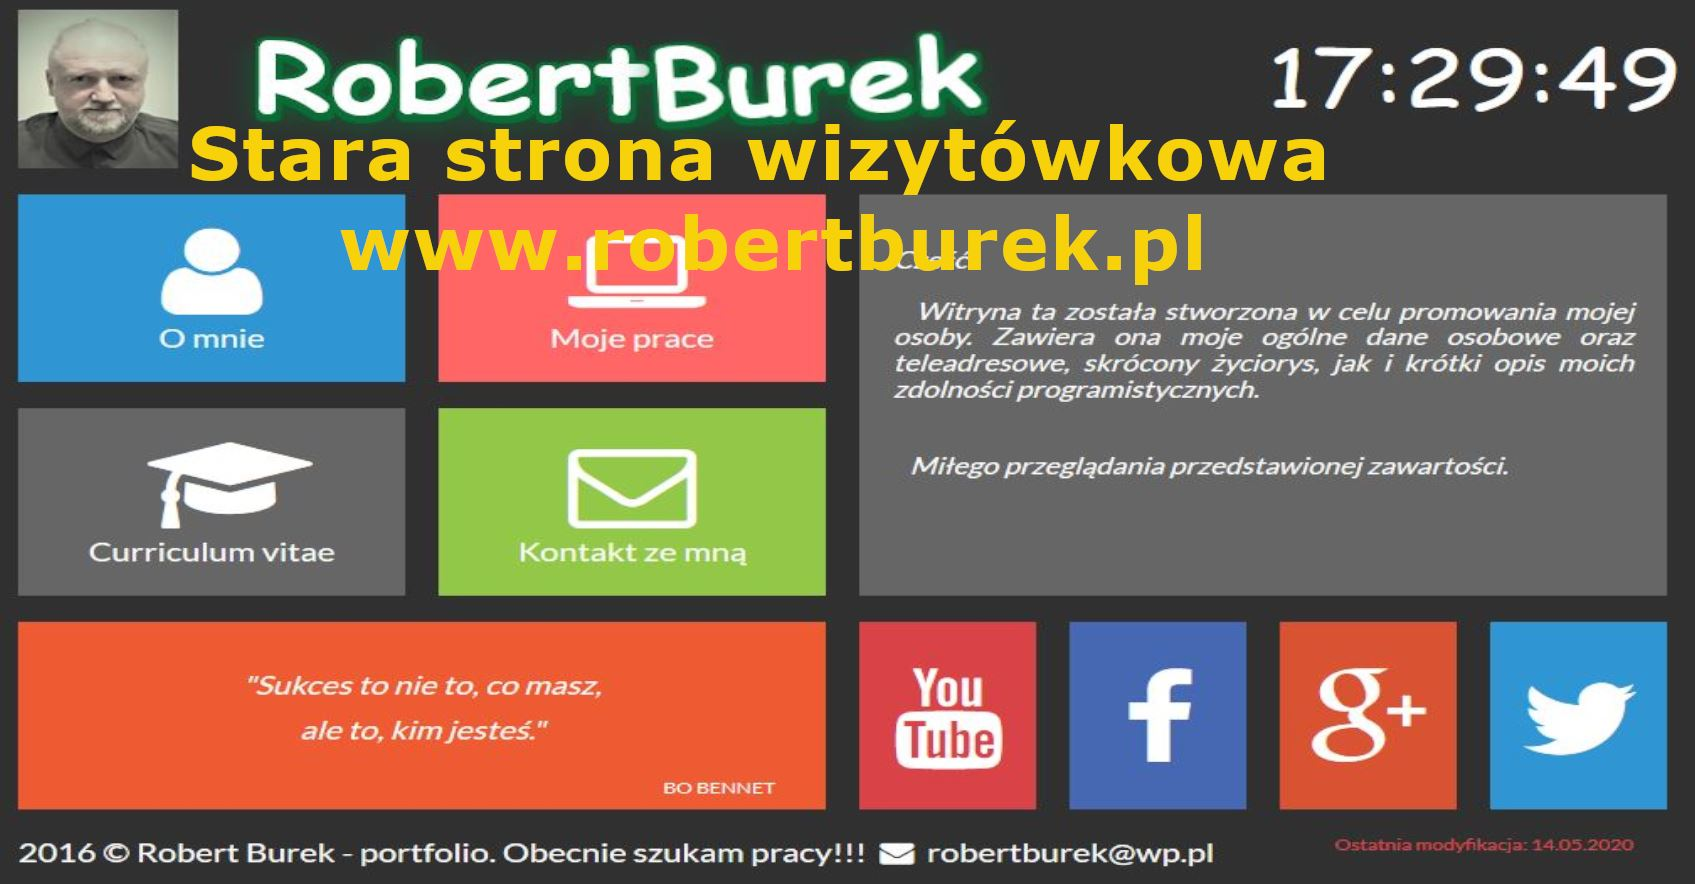
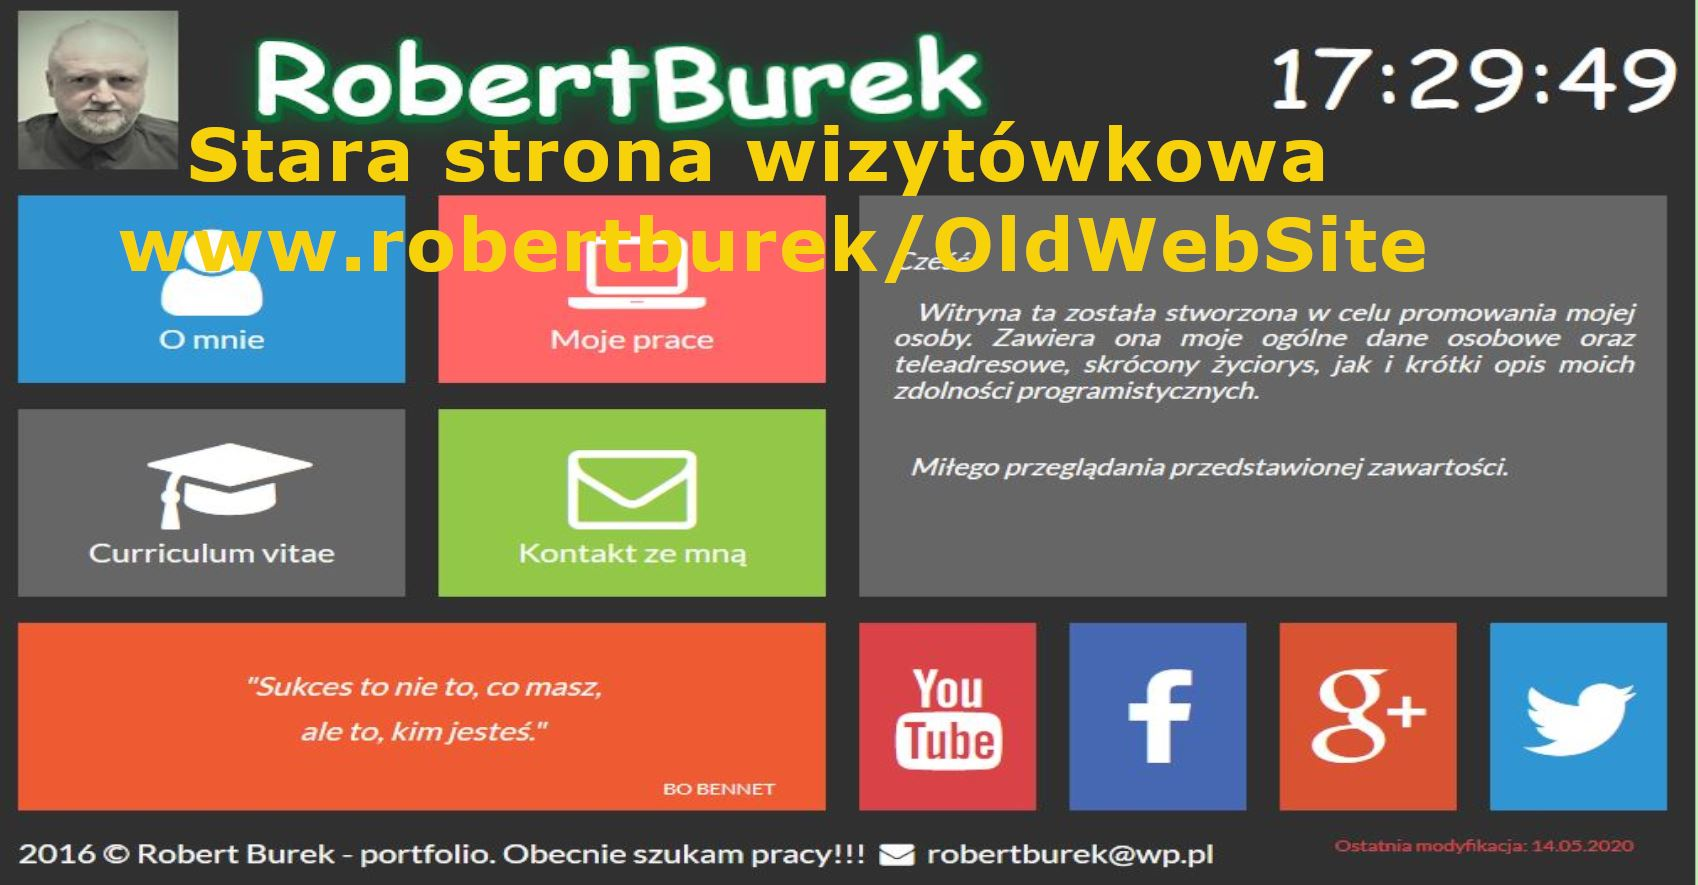
Zmiana adresu starej strony na ../OldWebSite

diff --git a/index.html b/index.html
@@ -162,7 +162,7 @@ $(document).ready(function(){
             <a href="img/slider/06.JPG" target="_blank" rel="lightbox"><img class="carousel" src="img/slider/06.JPG" alt="Website 6" title="Website 6"/></a>
             <a href="img/slider/07.JPG" target="_blank" rel="lightbox"><img class="carousel" src="img/slider/07.JPG" alt="Website 7" title="Website 7"/></a>
             <a href="img/slider/08.JPG" target="_blank" rel="lightbox"><img class="carousel" src="img/slider/08.JPG" alt="Website 8" title="Website 8"/></a>
-            <a href="http://robertburek.pl" target="_blank" rel="lightbox"><img class="carousel" src="img/slider/09.JPG" alt="Website 9" title="Website 9"/></a>
+            <a href="http://robertburek/OldWebSite" target="_blank" rel="lightbox"><img class="carousel" src="img/slider/09.JPG" alt="Website 9" title="Website 9"/></a>
             <!-- <a href="#9" target="_blank" rel="lightbox"><img class="carousel" src="img/slider/09.jpg" alt="Website 9" title="Website 9"/></a> -->
             <!-- <a href="#9" target="_blank" rel="lightbox"><img class="carousel" src="img/slider/09.jpg" alt="Website 9" title="Website 9"/></a> -->
             <!-- <a href="#9" target="_blank" rel="lightbox"><img class="carousel" src="img/slider/09.jpg" alt="Website 9" title="Website 9"/></a> -->
